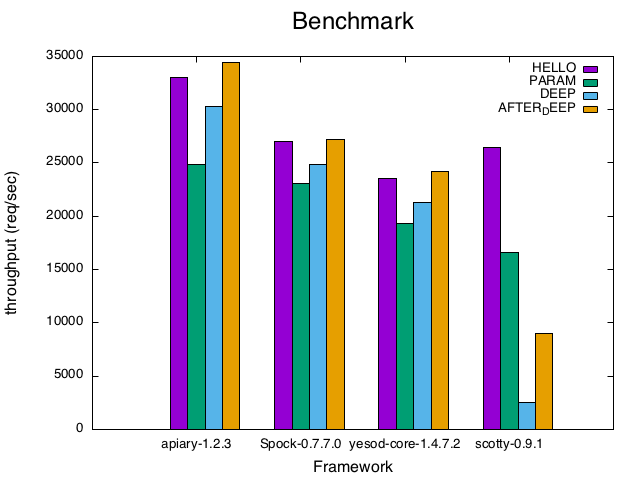
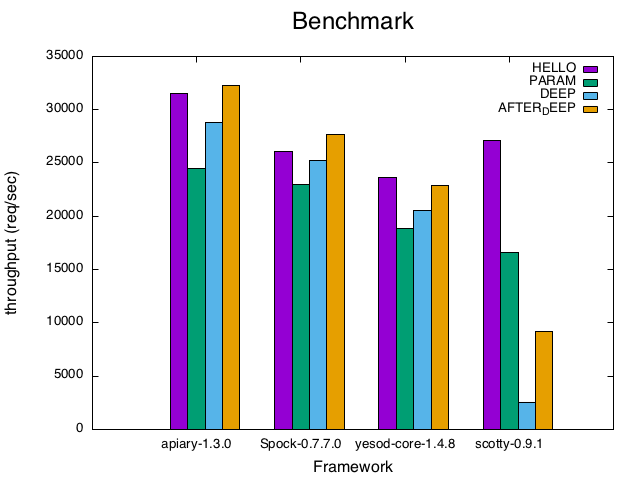
update results

diff --git a/results/1/result.md b/results/1/result.md
@@ -1,8 +1,6 @@
 |machine  |ghc    |framework         |HELLO   |PARAM   |DEEP    |AFTER_DEEP|
 |---------|-------|------------------|--------|--------|--------|----------|
-|server1  |7.8.4  |scotty-0.9.1      |27098.37|16637.75|2579.80 |9164.82   |
-|server1  |7.8.4  |yesod-core-1.4.8  |23629.91|18810.28|20557.09|22911.18  |
-|server1  |7.8.4  |Spock-0.7.7.0     |26104.94|23017.22|25273.03|27661.29  |
-|server1  |7.8.4  |apiary-1.2.3      |33028.57|24887.66|30258.40|34416.20  |
-|server1  |7.8.4  |yesod-core-1.4.7.2|23569.27|19298.25|21279.81|24164.14  |
 |server1  |7.8.4  |apiary-1.3.0      |31520.82|24457.39|28788.55|32261.40  |
+|server1  |7.8.4  |Spock-0.7.7.0     |26104.94|23017.22|25273.03|27661.29  |
+|server1  |7.8.4  |yesod-core-1.4.8  |23629.91|18810.28|20557.09|22911.18  |
+|server1  |7.8.4  |scotty-0.9.1      |27098.37|16637.75|2579.80 |9164.82   |

diff --git a/README.md b/README.md
@@ -52,10 +52,10 @@ Results
 
 |machine  |ghc    |framework         |HELLO   |PARAM   |DEEP    |AFTER_DEEP|
 |---------|-------|------------------|--------|--------|--------|----------|
-|server1  |7.8.4  |apiary-1.2.3      |33028.57|24887.66|30258.40|34416.20  |
-|server1  |7.8.4  |Spock-0.7.7.0     |27029.75|23066.57|24823.20|27176.61  |
-|server1  |7.8.4  |yesod-core-1.4.7.2|23569.27|19298.25|21279.81|24164.14  |
-|server1  |7.8.4  |scotty-0.9.1      |26429.29|16579.25|2489.47 |9034.91   |
+|server1  |7.8.4  |apiary-1.3.0      |31520.82|24457.39|28788.55|32261.40  |
+|server1  |7.8.4  |Spock-0.7.7.0     |26104.94|23017.22|25273.03|27661.29  |
+|server1  |7.8.4  |yesod-core-1.4.8  |23629.91|18810.28|20557.09|22911.18  |
+|server1  |7.8.4  |scotty-0.9.1      |27098.37|16637.75|2579.80 |9164.82   |
 
 References
 ---
